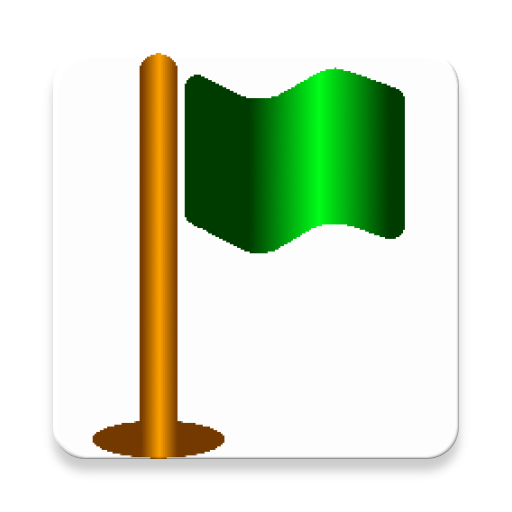
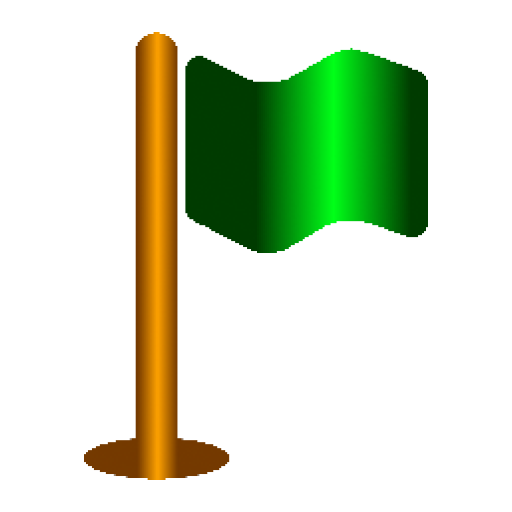
add images p3

Changed region(s): [[0.0938, 0.0625, 0.9062, 0.9375], [0.375, 0.4375, 0.4375, 0.4688]]

diff --git a/gpsFiction/src/main/java/com/sdesimeur/android/gpsfiction/fragments/MapFragment.java b/gpsFiction/src/main/java/com/sdesimeur/android/gpsfiction/fragments/MapFragment.java
@@ -220,11 +220,13 @@ public class MapFragment
         zoneViewHelperHashMap = new HashMap<>();
         //playerBitmap = BitmapFactory.decodeResource(getResources(),R.drawable.player_marker);
         playerBitmap = BitmapFactory.decodeResource(getResources(),R.mipmap.player_marker);
-        MarkerSymbol ms = new MarkerSymbol(drawableToBitmap(getResources(),R.drawable.transparent), HotspotPlace.CENTER);
+        //MarkerSymbol ms = new MarkerSymbol(drawableToBitmap(getResources(),R.drawable.transparent), HotspotPlace.CENTER);
+        MarkerSymbol ms = new MarkerSymbol(drawableToBitmap(getResources(),R.drawable.transparent), 0.5f, 0.75f);
         mMarkerLayer = new ItemizedLayer<>(mMap, new ArrayList<MarkerItem>(), ms , this);
         if (playerMarkerItem == null) {
             playerMarkerItem = new MarkerItem("Player", "Player", new MyGeoPoint(90,0));
-            playerMarkerItem.setMarker(getMarkerSymbolWithBitmap(getRotatedBitmap(playerBitmap,0f,false),HotspotPlace.CENTER,false));
+            //playerMarkerItem.setMarker(getMarkerSymbolWithBitmap(getRotatedBitmap(playerBitmap,0f,false),HotspotPlace.CENTER,false));
+            playerMarkerItem.setMarker(getMarkerSymbolWithBitmap(getRotatedBitmap(playerBitmap,0f,false),0.5f, 0.75f,false));
             mMarkerLayer.addItem(playerMarkerItem);
         }
         mMap.layers().add(mMarkerLayer);
@@ -389,7 +391,7 @@ public class MapFragment
                 gfc.addVehiculeSelectedIdListener((VehiculeSelectedIdListener) img);
             }
         } else {
-            setVehiculeSelectedId(vehicules.getResourceId(0,R.drawable.compass));
+            setVehiculeSelectedId(vehicules.getResourceId(0,R.mipmap.compass));
         }
 
     }
@@ -420,7 +422,7 @@ public class MapFragment
     }
     private void addViewForMapDirection(ViewGroup vg) {
         viewForMapDirection = (ImageView) vg.findViewById(R.id.forMapDirectionButtons);
-        viewForMapDirection.setImageDrawable(getDrawable(getActivity(),R.drawable.bearing));
+        viewForMapDirection.setImageDrawable(getDrawable(getActivity(),R.mipmap.bearing));
         viewForMapDirection.setTag(MapDirection.PLAYER);
         viewForMapDirection.setOnClickListener(new OnClickListener() {
             @Override
@@ -445,7 +447,7 @@ public class MapFragment
     private void fixViewForMapDirection () {
         int id = (int) viewForMapDirection.getTag();
         if (id == MapDirection.PLAYER) {
-            viewForMapDirection.setImageDrawable(getDrawable(getActivity(),R.drawable.bearing));
+            viewForMapDirection.setImageDrawable(getDrawable(getActivity(),R.mipmap.bearing));
         } else if (id == MapDirection.FIX) {
             viewForMapDirection.setImageBitmap(getRotatedBitmap(BitmapFactory.decodeResource(getResources(),R.drawable.nobearing),mMap.getMapPosition().getBearing(),true));
         } else if (id == MapDirection.NORTH) {
@@ -493,7 +495,7 @@ public class MapFragment
     @Override
     public void onZoneChanged(Zone zone) {
         //MarkerSymbol zoneMarkerSymbol = new MarkerSymbol(drawableToBitmap(getResources(),zone.getIconId()), HotspotPlace.BOTTOM_CENTER);
-        MarkerSymbol zoneMarkerSymbol = new MarkerSymbol(drawableToBitmap(getResources(),CENTERZONEICON), 0.25f, 0.9f);
+        MarkerSymbol zoneMarkerSymbol = new MarkerSymbol(drawableToBitmap(getResources(),CENTERZONEICON), 58.0f/225.0f, 214.0f/225.0f);
         ZoneViewHelper zvh = zoneViewHelperHashMap.get(zone);
         if (zvh == null) {
             zvh = new ZoneViewHelper(zone);
@@ -553,6 +555,10 @@ public class MapFragment
     private MarkerSymbol getMarkerSymbolWithBitmap (Bitmap bitmap, HotspotPlace hp, boolean bill) {
         AndroidBitmap ab = new AndroidBitmap(bitmap);
         return new MarkerSymbol(ab, hp, bill);
+    }
+    private MarkerSymbol getMarkerSymbolWithBitmap (Bitmap bitmap, float x , float y, boolean bill) {
+        AndroidBitmap ab = new AndroidBitmap(bitmap);
+        return new MarkerSymbol(ab, x, y, bill);
     }
     private Bitmap textAsBitmap(String text, float textSize, int textColor) {
         Paint paint = new Paint(Paint.DITHER_FLAG|Paint.ANTI_ALIAS_FLAG| Paint.FILTER_BITMAP_FLAG);

diff --git a/gpsFiction/src/main/java/com/sdesimeur/android/gpsfiction/activities/CalcRouteAndSpeakService.java b/gpsFiction/src/main/java/com/sdesimeur/android/gpsfiction/activities/CalcRouteAndSpeakService.java
@@ -115,12 +115,12 @@ public class CalcRouteAndSpeakService extends Service implements TextToSpeech.On
     private volatile boolean prepareInProgress = false;
     private PathWrapper routePath = null;
     private HashMap<Integer, FlagEncoder> vehiculeGHEncoding = new HashMap<Integer, FlagEncoder>() {{
-        put(R.drawable.compass, null);
-        put(R.drawable.pieton, new FootFlagEncoder());
-        put(R.drawable.cycle, new BikeFlagEncoder());
-        put(R.drawable.auto, new CarFlagEncoder());
+        put(R.mipmap.compass, null);
+        put(R.mipmap.pieton, new FootFlagEncoder());
+        put(R.mipmap.cycle, new BikeFlagEncoder());
+        put(R.mipmap.auto, new CarFlagEncoder());
     }};
-    private int vehiculeSelectedId = R.drawable.compass;
+    private int vehiculeSelectedId = R.mipmap.compass;
     private float deltaDistMax = 0.050f;
 
 
@@ -201,7 +201,7 @@ public class CalcRouteAndSpeakService extends Service implements TextToSpeech.On
                 Notification notification = null;
                 if (android.os.Build.VERSION.SDK_INT >= android.os.Build.VERSION_CODES.JELLY_BEAN) {
                     notification = new Notification.Builder(this)
-                        .setSmallIcon(R.drawable.bearing)
+                        .setSmallIcon(R.mipmap.bearing)
                         .setContentTitle("GpsFictionService")
                         .setContentText("Started")
                         .setWhen(System.currentTimeMillis())
@@ -241,7 +241,7 @@ public class CalcRouteAndSpeakService extends Service implements TextToSpeech.On
     }
     public void calcPathIfNecessar() {
         if ((playerLocation != null) && (destLocation != null)) {
-            if (vehiculeSelectedId == R.drawable.compass) {
+            if (vehiculeSelectedId == R.mipmap.compass) {
                 calcLinePath();
             } else {
                 if (listOfPoints.size() == 0) {
@@ -374,7 +374,7 @@ public class CalcRouteAndSpeakService extends Service implements TextToSpeech.On
     }
 
     public void cleanListOfPoints() {
-        if ((listOfPoints.size() !=0) && (vehiculeSelectedId!=R.drawable.compass))
+        if ((listOfPoints.size() !=0) && (vehiculeSelectedId!=R.mipmap.compass))
             if (listOfPoints.pointDistanceMin(playerLocation).distanceTo(playerLocation) > deltaDistMax) {
                 listOfPoints.clear();
                 calcPathIfNecessar();

diff --git a/gpsFiction/src/main/java/com/sdesimeur/android/gpsfiction/activities/MyLocationListenerService.java b/gpsFiction/src/main/java/com/sdesimeur/android/gpsfiction/activities/MyLocationListenerService.java
@@ -63,7 +63,7 @@ public class MyLocationListenerService extends Service implements LocationListen
                 Notification notification = null;
                 if (android.os.Build.VERSION.SDK_INT >= android.os.Build.VERSION_CODES.JELLY_BEAN) {
                     notification = new Notification.Builder(this)
-                            .setSmallIcon(R.drawable.bearing)
+                            .setSmallIcon(R.mipmap.bearing)
                             .setContentTitle("MyLocationListenerService")
                             .setContentText("Started")
                             .setWhen(System.currentTimeMillis())

diff --git a/gpsFiction/src/main/java/com/sdesimeur/android/gpsfiction/classes/GpsFictionData.java b/gpsFiction/src/main/java/com/sdesimeur/android/gpsfiction/classes/GpsFictionData.java
@@ -29,7 +29,7 @@ public class GpsFictionData {
     private transient Resources resources;
 
     protected boolean allreadyConfigured = false; // Parcel
-    private int vehiculeSelectedId = R.drawable.compass;
+    private int vehiculeSelectedId = R.mipmap.compass;
     private HashSet<GpsFictionThing> gpsFictionThings = new HashSet<>();
     private int zoomLevel = INITZOOMLEVEL;
 
